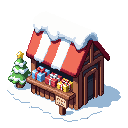
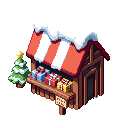
Plaza visitors: no stone pads, silhouette shadows for the wagon, the stalls and the statue
Meowth's wagon, the seasonal stalls and the golden statue's pedestal cast
their squashed silhouette on the cobblestones instead of standing on drawn
stone pads (their footprints stay, invisible, for walkers). The Duskull and
Delibird stalls lose the ground baked into their PNGs.

diff --git a/src/render/plaza.ts b/src/render/plaza.ts
@@ -13,11 +13,12 @@ import { CARAVAN, STALLS, type StallId } from '../data/visitors'
  * (`public/assets/shop/`), anchored by the bottom center of what they paint,
  * with no ground of their own: each casts a shadow on the cobblestones (its
  * own silhouette squashed flat, or a soft ellipse under the deep 3/4
- * buildings). The building keeps an invisible footprint walkers go around.
- * The shopkeepers are Kecleon's own sheets, plus its purple brother from Lv 2,
- * recolored from the same sheets. Visitors come by too (`PlazaVisitors`, set
- * by the shell): Meowth's weekend caravan, a seasonal stall and the golden
- * Kecleon statue, each on its own stone pad. Pure presentation, like the rest of the lobby.
+ * buildings). The shopkeepers are Kecleon's own sheets, plus its purple
+ * brother from Lv 2, recolored from the same sheets. Visitors come by too
+ * (`PlazaVisitors`, set by the shell): Meowth's weekend caravan, a seasonal
+ * stall and the golden Kecleon statue. The building and each visitor keep an
+ * invisible footprint walkers go around (`padsOf`). Pure presentation, like
+ * the rest of the lobby.
  */
 
 export const KECLEON_DEX = 352
@@ -181,7 +182,7 @@ type Layout = {
   stall: Placed
   stallKeeper: KeeperSpot
   statue: Placed
-  /** What the building and the props cast on the cobblestones. */
+  /** What the building, the props and the visitors' pieces cast on the cobblestones. */
   shadows: readonly Shadow[]
 }
 
@@ -190,7 +191,7 @@ const layouts = new Map<string, Layout>()
 /** Row of `shop-lv3.png` where its counter's front starts (the kiosk's shopkeepers stand behind it). */
 const LV3_COUNTER = 122
 
-/** The stone pads under the visitors (radii), each a little wider than what stands on it. */
+/** The visitors' footprints (radii, never drawn), each a little wider than what stands on it. */
 const VISITOR_PADS = { wagon: { rx: 74, ry: 16 }, stall: { rx: 60, ry: 18 }, statue: { rx: 21, ry: 7 } } as const
 
 const layoutOf = (level: ShopLevel, v: PlazaVisitors = NO_VISITORS): Layout | null => {
@@ -219,6 +220,7 @@ const layoutOf = (level: ShopLevel, v: PlazaVisitors = NO_VISITORS): Layout | nu
   // The caravan parks west of the shop, a stall stands east of it (where the crates were); the statue keeps the front.
   const wagon = { x: -lamp - 118, y: 44 }
   const stall = { x: lamp + 84, y: 40 }
+  const statue = { x: -Math.round(half * 0.5), y: 92 }
   const wide = v.caravan || v.stall !== null
   const props: Layout['props'] = [
     { id: 'lantern', x: -lamp, y: 14 },
@@ -239,11 +241,14 @@ const layoutOf = (level: ShopLevel, v: PlazaVisitors = NO_VISITORS): Layout | nu
     meowth: { x: wagon.x + 84, y: wagon.y + 16, dir: 1 },
     stall,
     stallKeeper: { x: stall.x - 58, y: stall.y + 12, dir: 7 },
-    statue: { x: -Math.round(half * 0.5), y: 92 },
+    statue,
     shadows: [
       // The deep 3/4 buildings cast a soft ellipse under their footprint; everything else, its own silhouette.
       depth ? { x: 0, y: -Math.round(half * 0.3), rx: half - 10, ry: Math.round(half * 0.32) } : { x: 0, y: 0, art: building },
       ...props.map((p) => ({ x: p.x, y: p.y, art: arts.get(p.id)! })),
+      ...(v.caravan ? [{ ...wagon, art: arts.get('caravan')! }] : []),
+      ...(v.stall ? [{ ...stall, art: arts.get(STALLS[v.stall].art)! }] : []),
+      ...(v.statue ? [{ ...statue, art: arts.get('pedestal')! }] : []),
     ],
   }
   layouts.set(key, layout)
@@ -397,7 +402,7 @@ export const pushOut = (plaza: Plaza, v: Vec) => {
     else v.x = plaza.x + Math.sign(v.x - plaza.x || 1) * half
     return
   }
-  // Off the building's pad and the visitors' (a wagon or a stall is as solid as its pad, a little taller behind).
+  // Off the building's footprint and the visitors' (a wagon or a stall is as solid as its footprint, a little taller behind).
   for (const pad of padsOf(plaza, layout)) {
     const { rx, ry } = pad
     const cx = plaza.x + pad.x
@@ -416,7 +421,7 @@ export const pushOut = (plaza: Plaza, v: Vec) => {
   }
 }
 
-/** The stone pads on the plaza: the building's, then the visitors' (center relative to the building's feet, radii; `back` stretches the solid part behind a tall piece). */
+/** The footprints on the plaza, never drawn: the building's, then the visitors' (center relative to the building's feet, radii; `back` stretches the solid part behind a tall piece). */
 const padsOf = (plaza: Plaza, layout: Layout) => {
   const v = plaza.visitors
   return [
@@ -664,7 +669,6 @@ const drawStatue = (ctx: CanvasRenderingContext2D, x: number, y: number, time: n
   const pedestal = arts.get('pedestal')
   const green = loadedSprites(KECLEON_DEX)
   if (!pedestal || !green) return
-  blitCentered(ctx, ellipse(Math.round(pedestal.w / 2), 2, 'rgba(16,40,16,0.3)'), x, y - 1)
   put(ctx, pedestal, x, y)
   // Frozen on its first idle frame: it's a statue.
   drawPokemon(ctx, goldenSprites(green), 'Idle', 0, 0, x, y - pedestal.h + PEDESTAL_TOP)
